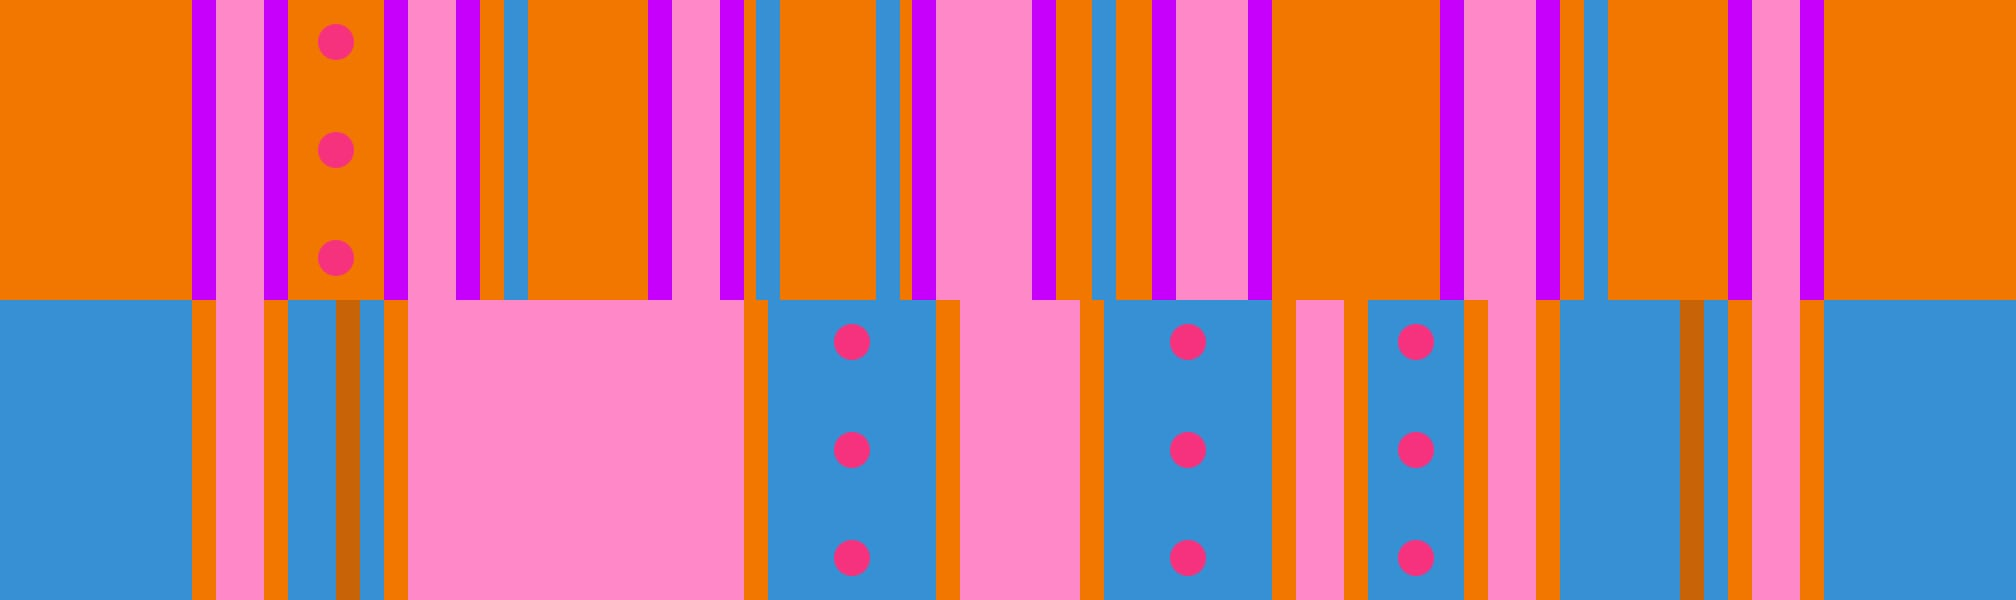
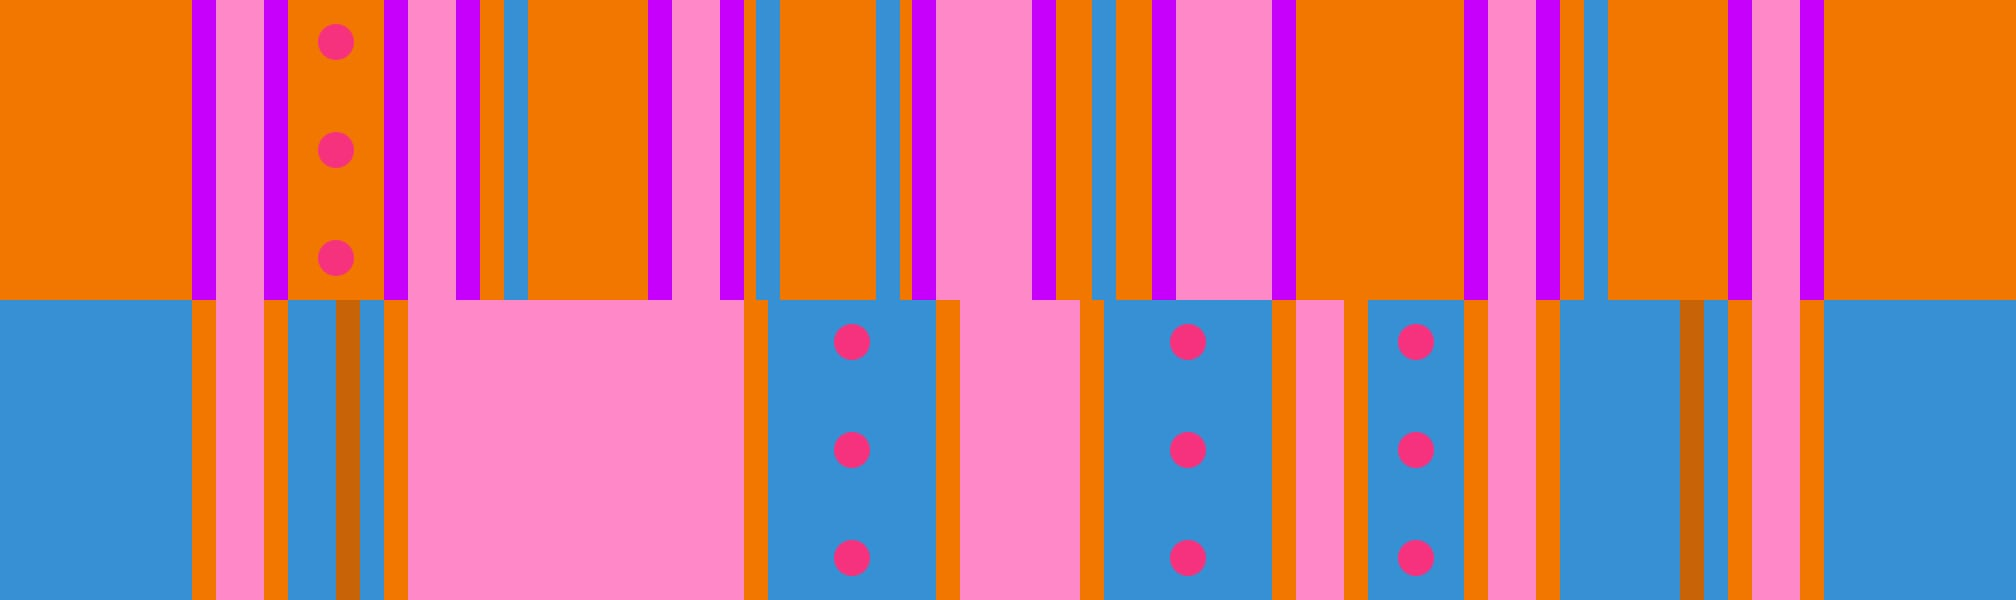
update roll pics

Changed region(s): [[0.6875, 0.0, 0.75, 0.51], [0.5938, 0.0, 0.6562, 0.51]]

diff --git a/docs/stylesheets/extra.css b/docs/stylesheets/extra.css
@@ -1,0 +1,3 @@
+:root > * {
+    --md-primary-fg-color: #F27700;
+}

diff --git a/docs/rolls/easy-4.md b/docs/rolls/easy-4.md
@@ -1,18 +1,18 @@
 # Easy 4
 
-There are two Easy 4 rolls, one that is orange and another that is blue. Both of the rolls are identical, aside from the fact that they are mirror images of each other.
+This roll gets its name for having a sequence of 4 consecutive easy jumps.
 
 ## Orange
 
-![Easy 4 Orange](../images/rolls/easy-4-orange.jpg)
+![Easy 4 Orange](../images/rolls/easy-4-orange-annotated.jpg)
 
-This variation gets its name for having 4 easy, straightforward jumps at the beginning. It's a flipped variation of the blue Easy 4, and has the beginning blue ends off with. This is by far considered the easiest orange variant to traverse on due to how small the gaps are and how spacious it is. There is not a single gap you need to worry about diving on, and each jump can be made relatively easily.
+It's a flipped variation of the blue Easy 4, and has the beginning blue ends off with. This is by far considered the easiest orange variant to traverse on due to how small the gaps are and how spacious it is. There is not a single gap you need to worry about diving on, and each jump can be made relatively easily.
 
 At the beginning, there are 4 consecutive jumps you can make, then after this there is a wall, with 3 platforms surrounding another wall that has 2 small gaps.
 
 ## Blue
 
-![Easy 4 Blue](../images/rolls/easy-4-blue.jpg)
+![Easy 4 Blue](../images/rolls/easy-4-blue-annotated.jpg)
 
 This variation gets its name for having 4 easy, straightforward jumps at the end. It's a flipped variation of the orange Easy 4, and has the ending orange starts off with. This is by far considered the easiest blue variant to traverse on due to how small the gaps are and how spacious it is. There is not a single gap you need to worry about diving on, and each jump can be made relatively easily.
 

diff --git a/docs/index.md b/docs/index.md
@@ -5,30 +5,10 @@ hide:
 
 # Roll Call Club
 
-This site describes how to timeout Roll Off in Fall Guys.
+## Getting Started
 
-## TODO
+Start [**here**](getting-started/index.md) if you are looking to improve your Roll Off timeout skills!
 
-* Getting started
-    * Memorizing the rolls
-    * Understanding the blue/orange roll speed
-    * Making space for others & coordinating pathing
-    * Counting laps
-        * Double check the exact times of the laps
-    * Dealing with griefers
-* Variations
-    * Isolated Duo + Grand Canyon (need gif for inner wall jump)
-    * Need better name for "No jump path" in 4th hardest variation?
-* Advanced tips
-    * Detecting variations early (need pictures)
-    * Isolated duo god jumps
-    * One-Rolling w/ wall jumps
-* Other stuff
-    * Fun facts
-    * FAQ
-    * Glossary
-    * Add stuff about roll on and roll out too?
-    * 5 Wall Club / hall of fame
-* Code cleanup
-    * Move existing gifs to git repo
-    * Improve overall theme and
+## Hard Variations
+
+Start [**here**](variations/index.md) if you are trying to learn how to timeout the harder Roll Off variations.

diff --git a/docs/rolls/closed-open-open-closed.md b/docs/rolls/closed-open-open-closed.md
@@ -2,12 +2,12 @@
 
 ## Orange
 
-![Closed-Open Orange](../images/rolls/closed-open-orange.jpg)
+![Closed-Open Orange](../images/rolls/closed-open-orange-annotated.jpg)
 
 The reason this roller gets its name "Closed-Open" is for having a confined start and an open ending. Out of all the orange variants, this one roller has the most spacious ending to traverse. This is the only variant that allows for three late jumps without any dives needed.
 
 ## Blue
 
-![Open-Closed Blue](../images/rolls/open-closed-blue.jpg)
+![Open-Closed Blue](../images/rolls/open-closed-blue-annotated.jpg)
 
 The reason this roller gets its name "Open-Closed" is for having an open start and a closed ending. Out of all the blue variants, this roller has the most open beginning and the most confined ending, giving barely enough space to traverse it. This is the only blue variant that allows three early jumps until its middle section. Each jump can be made even without a dive, including the last one.

diff --git a/docs/rolls/isolated-duo.md b/docs/rolls/isolated-duo.md
@@ -2,12 +2,12 @@
 
 ## Orange
 
-![Isolated Duo Orange](../images/rolls/isolated-duo-orange.jpg)
+![Isolated Duo Orange](../images/rolls/isolated-duo-orange-annotated.jpg)
 
 This variation gets its name because of 2 small platforms that lie in the middle of this variant. These 2 small platforms are surrounded by large gaps, but the rest is fairly spacious which 2 walls are able to cover on each end.
 
 ## Blue
 
-![Isolated Duo Blue](../images/rolls/isolated-duo-blue.jpg)
+![Isolated Duo Blue](../images/rolls/isolated-duo-blue-annotated.jpg)
 
 This variation gets its name because of 2 small platforms that lie in the middle of this variant. These 2 small platforms are surrounded by large gaps, but the rest is fairly spacious which 2 walls are able to cover on each end.

diff --git a/docs/rolls/pillar-trench.md b/docs/rolls/pillar-trench.md
@@ -2,6 +2,6 @@
 
 ## Blue
 
-![Pillar Trench Blue](../images/rolls/pillar-trench-blue.jpg)
+![Pillar Trench Blue](../images/rolls/pillar-trench-blue-annotated.jpg)
 
 What makes this blue variant in particular is it's the only variation out of the 9 that can spawn the most pillars. It can easily be recognized from a "checkpoint" (two walls in a row without gaps) formed between its first two walls. This is the only variation that can spawn in a set of 4 with a total of 12 of them on just this variant. In the middle, there's 3 jumps you can make, with 2 small jumps surrounding a fairly medium-sized gap.

diff --git a/docs/rolls/grand-canyon.md b/docs/rolls/grand-canyon.md
@@ -2,7 +2,7 @@
 
 ## Blue
 
-![Grand Canyon Blue](../images/rolls/grand-canyon-blue.jpg)
+![Grand Canyon Blue](../images/rolls/grand-canyon-blue-annotated.jpg)
 
 This is the only roller out of all the blue and orange rollers to have the largest gap, which spawns at the beginning. After this huge gap, there are 3 consecutive jumps you can easily make, until a wall hits you at the end.
 

diff --git a/docs/rolls/5-waller.md b/docs/rolls/5-waller.md
@@ -2,7 +2,7 @@
 
 ## Orange
 
-![5 Waller Orange](../images/rolls/5-waller-orange.jpg)
+![5 Waller Orange](../images/rolls/5-waller-orange-annotated.jpg)
 
 This roll gets its name for having the most walls out of all the 9 roll, having a total of 5, hence its name.
 

diff --git a/docs/advanced/recognizing-variations.md b/docs/advanced/recognizing-variations.md
@@ -1,3 +1,3 @@
 # Recognizing Variations
 
-asdf
+TODO

diff --git a/docs/advanced/isolated-duo-god-jumps.md b/docs/advanced/isolated-duo-god-jumps.md
@@ -1,0 +1,3 @@
+# Isolated Duo God Jumps
+
+TODO

diff --git a/docs/getting-started/index.md b/docs/getting-started/index.md
@@ -1,3 +1,3 @@
 # Getting Started
 
-asdf
+TODO

diff --git a/docs/variations/index.md b/docs/variations/index.md
@@ -1,3 +1,3 @@
 # Variations
 
-asdf
+TODO
